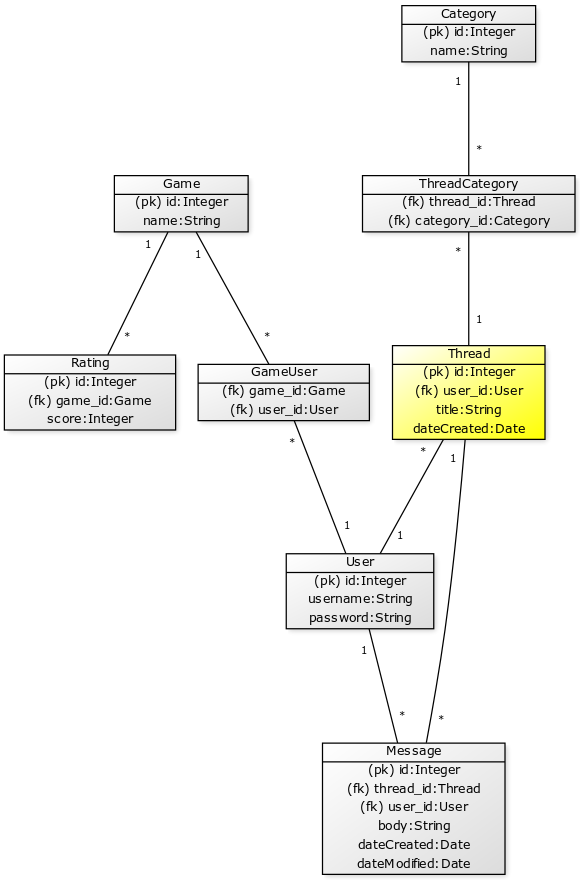
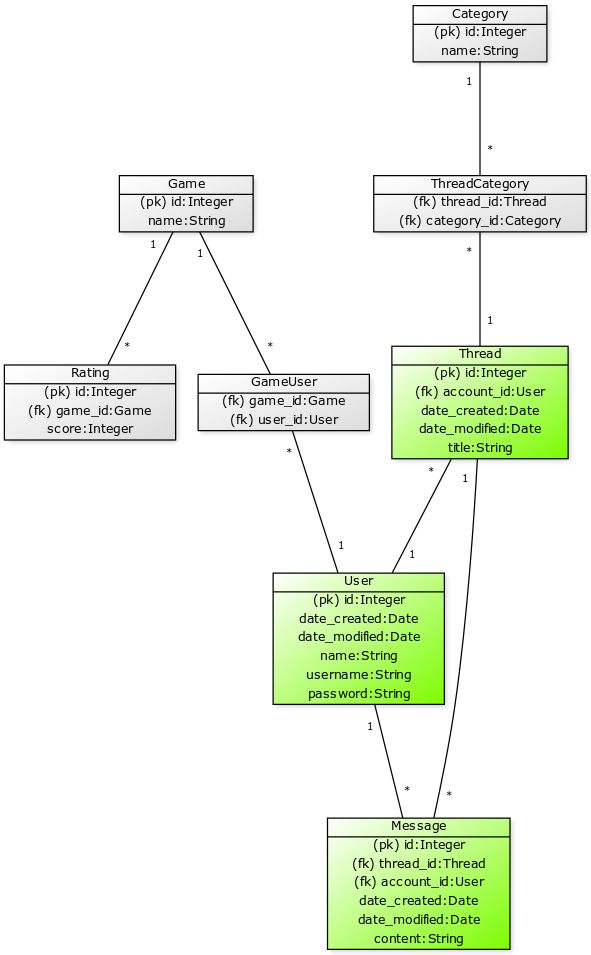
Päivitetty dokumentaatiota

Changed region(s): [[0.0, 0.0, 1.0, 1.0], [0.1862, 0.1841, 0.4345, 0.3375]]

diff --git a/documentation/user_stories.md b/documentation/user_stories.md
@@ -2,12 +2,15 @@
 
 ## Toteutettu
 
-* Foorumin käyttäjän tulee pystyä luomaan uusia viestiketjuja
-* Käyttäjä voi tarkastella luotujen viestiketjujen listaa
+* Foorumin käyttäjä voi luoda itselleen käyttäjätunnuksen ja kirjautua sisään
+* Kuka tahansa voi lukea käyttäjien luomia viestiketjuja kirjautumatta sisään
+* Sisäänkirjautunut käyttäjä voi luoda uuden viestiketjun
+* Sisäänkirjautunut käyttäjä voi lisätä viestin mihin tahansa viestiketjuun
+* Sisäänkirjautunut käyttäjä voi muokata viestiketjuihin lähetettyjä viestejä
+* Sisäänkirjautunut käyttäjä voi poistaa kokonaisen viestiketjun ja sen mukana kaikki siihen lähetetyt viestit
 
 ## Työn alla
 
-* Klikkaamalla viestiketjun otsikkoa, käyttäjä pääsee lukemaan kyseiseen viestiketjuun lähetettyjä viestejä
-* Viestiketjuun voi lisätä viestejä
-* Uusien viestiketjujen tai viestien luominen vaatii sisäänkirjautumisen
-* Käyttäjä voi luoda käyttäjätunnuksen ja kirjautua sisään
+* Viestien muokkaaminen ja viestiketjujen poistaminen onnistuu vain, jos kyseessä on käyttäjän itsensä lisäämä viesti tai viestiketju. Tällä hetkellä kaikilla kirjautuneilla käyttäjillä on oikeus muokata ja poistaa.
+* Käyttäjän rekisteröityessä sivustolle, salasana talletetaan tietokantaan salattuna hajautusarvona. Tällä hetkellä salasanat tallennetaan vielä selväkielisinä.
+* Viestiketjua luodessa siihen voi liittää valmiiksi määriteltyjä tunnisteita, joiden avullla näytettävien viestiketjujen listaa voi rajata

diff --git a/README.md b/README.md
@@ -2,6 +2,14 @@
 
 [Linkki sovellukseen](https://blooming-reef-61522.herokuapp.com/)
 
+Sovelluksen käyttäminen vaatii käyttäjätunnuksen, jonka voi halutessaan luoda rekisteröitymislomakkeen kautta.
+
+Vaihtoehtoisesti voi myös käyttää alla olevaa valmiiksi luotua käyttäjätunnusta:
+```
+username: test
+password: user
+```
+
 [Linkki sovelluksen tietokantakaaviohahmotelmaan](documentation/forum_diagram.png)
 
 [Linkki sovelluksen käyttötapausesimerkkeihin](documentation/user_stories.md)
